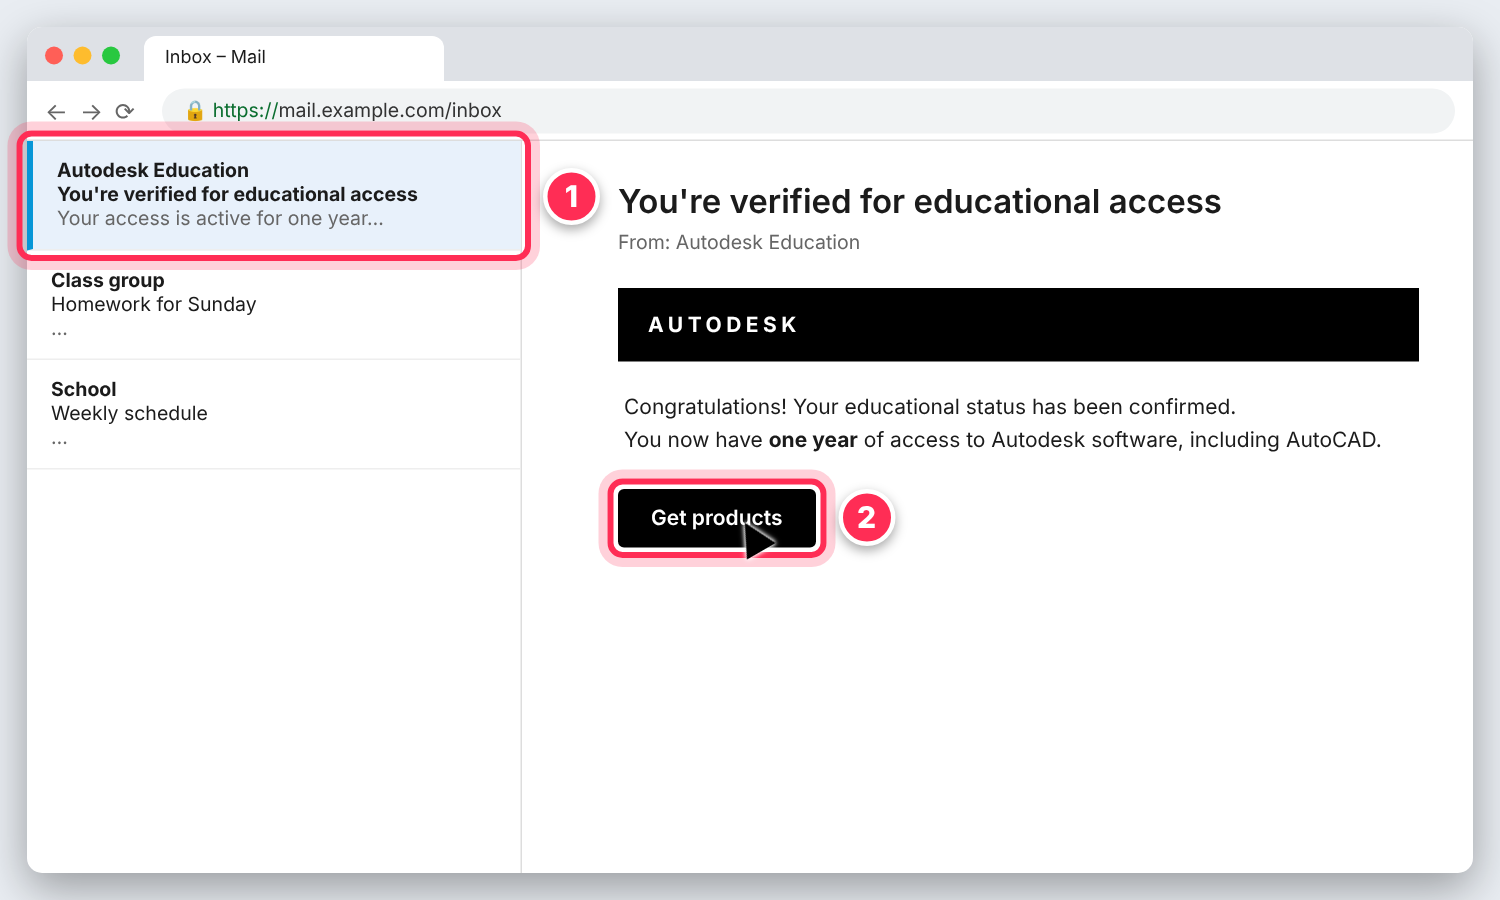
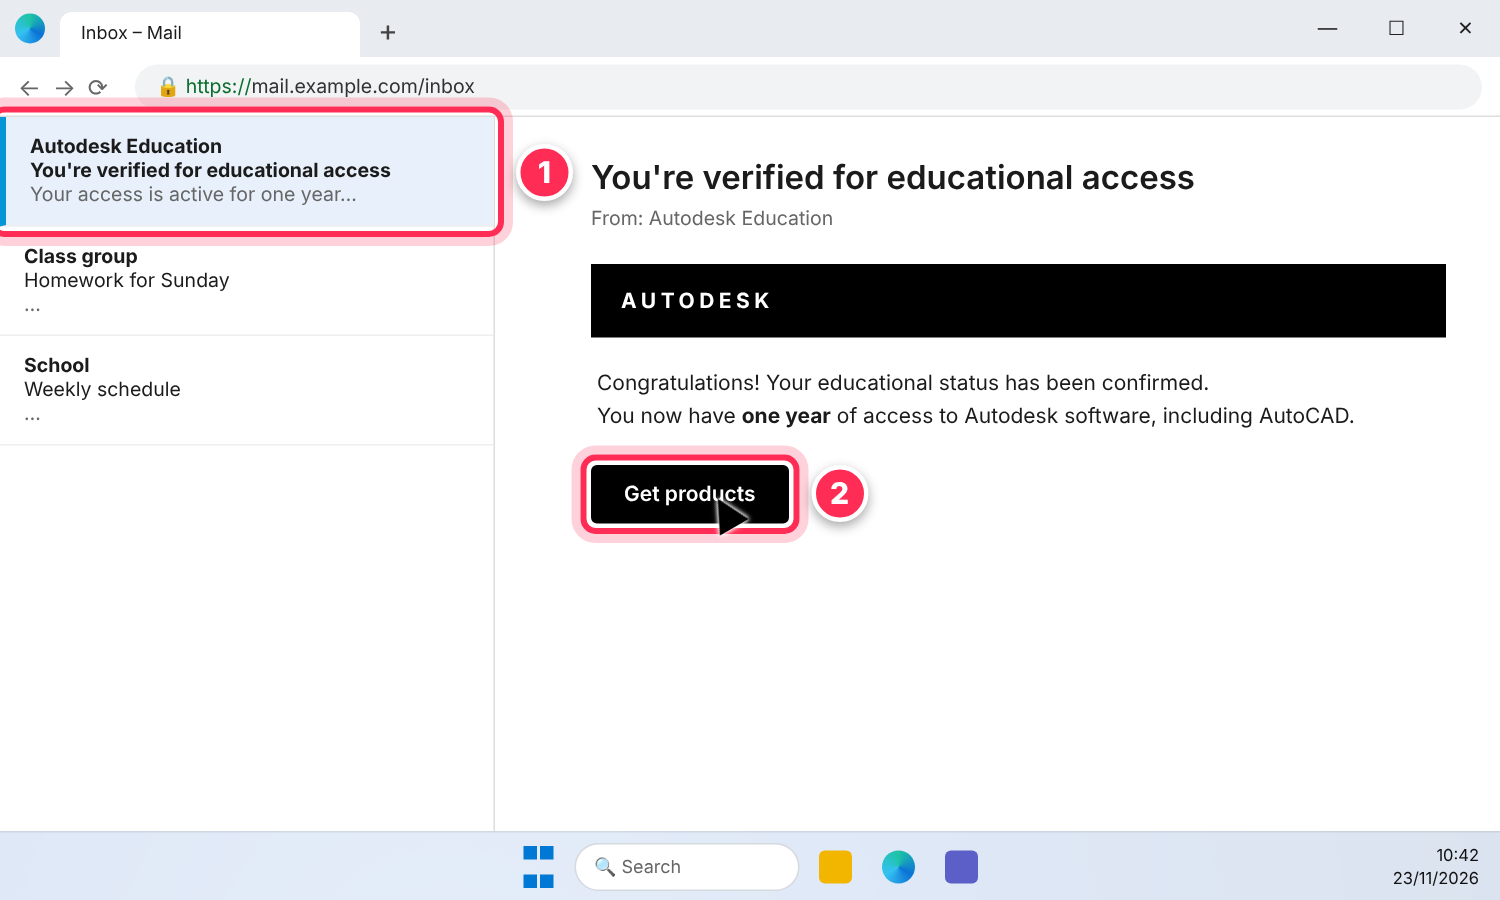
Redraw screen illustrations in Windows 11 style
Claude-Session: https://claude.ai/code/session_01HfNHHeuN3o1NZDg6FJ5LBf

Changed region(s): [[0.0, 0.0, 1.0, 1.0]]

diff --git a/mockups/mockups.html b/mockups/mockups.html
@@ -97,6 +97,27 @@
   /* --- mail --- */
   .mail-list div { padding: 12px 16px; border-bottom: 1px solid #eee; font-size: 13px; }
 
+
+  /* --- Windows 11 look --- */
+  .desk, .shot.windesk { background: radial-gradient(ellipse at 30% 110%, #7fb2ff 0%, #2f6fd6 35%, #133b8a 70%, #0b1f4d 100%); }
+  .shot.windesk .browser { inset: 0 0 46px 0; border-radius: 0; box-shadow: none; }
+  .tabs { background: #e8ebf0; height: 38px; align-items: flex-end; padding: 0 0 0 8px; gap: 6px; }
+  .tabs .edge { width: 20px; height: 20px; border-radius: 50%; background: conic-gradient(#1ec3a6, #0b72d6, #35c1f1, #1ec3a6); color: transparent; margin: 0 4px 9px 2px; }
+  .tabs .newtab { font-size: 20px; color: #444; margin: 0 6px 6px; }
+  .winctl { margin-left: auto; display: flex; align-self: stretch; }
+  .winctl span { width: 46px; display: flex; align-items: center; justify-content: center; font-size: 13px; color: #222; }
+  .wbar { position: absolute; left: 0; right: 0; top: 0; height: 32px; background: #fff; display: flex; align-items: center; padding-left: 12px; font-size: 12px; color: #222; border-bottom: 1px solid #e3e3e3; z-index: 2; }
+  .wbar .winctl { height: 32px; }
+  .wbar.dark { background: #2b2b2b; color: #eee; border-color: #2b2b2b; }
+  .wbar.dark .winctl span { color: #eee; }
+  .inst { padding-top: 32px; }
+  .taskbar { height: 46px; background: rgba(238,242,248,.92); border-top: 1px solid rgba(0,0,0,.08); gap: 6px; }
+  .taskbar .ti { width: 36px; height: 36px; border-radius: 6px; display: flex; align-items: center; justify-content: center; }
+  .taskbar .start { display: grid; grid-template-columns: 9px 9px; gap: 2px; }
+  .taskbar .start b { width: 9px; height: 9px; background: #0078d4; display: block; }
+  .taskbar .search { width: 150px; height: 32px; border-radius: 16px; background: #fff; border: 1px solid #d6d9de; font-size: 12px; color: #666; display: flex; align-items: center; padding-left: 12px; }
+  .taskbar .clock { position: absolute; right: 14px; font-size: 11px; text-align: right; line-height: 1.35; color: #111; }
+  .taskbar .sq { width: 22px; height: 22px; border-radius: 4px; display: block; }
 </style>
 </head>
 <body>
@@ -129,13 +150,13 @@
       </div>
     </div>
   </div>
-  <div class="taskbar"><i></i><i></i><i></i><i></i></div>
+  
 </div>
 
 <!-- 02 — Autodesk education page -->
 <div class="shot" id="02-education-page">
   <div class="browser">
-    <div class="tabs"><div class="dots"><i></i><i></i><i></i></div><div class="tab">Autodesk Education | Free software for…</div></div>
+    <div class="tabs"><span class="edge">e</span><div class="tab">Autodesk Education | Free software for…</div><span class="newtab">+</span><div class="winctl"><span>—</span><span>☐</span><span>✕</span></div></div>
     <div class="bar"><span class="nav">←→⟳</span><div class="url">🔒 <b>https://</b>www.autodesk.com/education/edu-software/overview</div></div>
     <div class="page">
       <div class="site-top"><span class="brand">AUTODESK</span><span>Products</span><span>Support</span><span>Learning</span><span style="margin-left:auto">Sign in</span></div>
@@ -157,7 +178,7 @@
 <!-- 03 — Sign in / Create account -->
 <div class="shot" id="03-sign-in">
   <div class="browser">
-    <div class="tabs"><div class="dots"><i></i><i></i><i></i></div><div class="tab">Autodesk – Sign In</div></div>
+    <div class="tabs"><span class="edge">e</span><div class="tab">Autodesk – Sign In</div><span class="newtab">+</span><div class="winctl"><span>—</span><span>☐</span><span>✕</span></div></div>
     <div class="bar"><span class="nav">←→⟳</span><div class="url">🔒 <b>https://</b>accounts.autodesk.com/logon</div></div>
     <div class="page" style="background:#f5f5f5;display:flex;align-items:center;justify-content:center">
       <div class="card" style="width:400px;padding:34px 36px">
@@ -175,7 +196,7 @@
 <!-- 04 — Create account form (education) -->
 <div class="shot" id="04-create-account">
   <div class="browser">
-    <div class="tabs"><div class="dots"><i></i><i></i><i></i></div><div class="tab">Autodesk Education – Create account</div></div>
+    <div class="tabs"><span class="edge">e</span><div class="tab">Autodesk Education – Create account</div><span class="newtab">+</span><div class="winctl"><span>—</span><span>☐</span><span>✕</span></div></div>
     <div class="bar"><span class="nav">←→⟳</span><div class="url">🔒 <b>https://</b>www.autodesk.com/education/edu-software/…</div></div>
     <div class="page" style="background:#f5f5f5;display:flex;justify-content:center;gap:24px;padding-top:24px">
       <div class="card" style="width:400px;padding:24px 30px">
@@ -201,7 +222,7 @@
 <!-- 05 — Verify education status (SheerID-style) -->
 <div class="shot" id="05-verify">
   <div class="browser">
-    <div class="tabs"><div class="dots"><i></i><i></i><i></i></div><div class="tab">Confirm your education status</div></div>
+    <div class="tabs"><span class="edge">e</span><div class="tab">Confirm your education status</div><span class="newtab">+</span><div class="winctl"><span>—</span><span>☐</span><span>✕</span></div></div>
     <div class="bar"><span class="nav">←→⟳</span><div class="url">🔒 <b>https://</b>www.autodesk.com/education/edu-software/…/verify</div></div>
     <div class="page" style="background:#f5f5f5;display:flex;align-items:flex-start;justify-content:center;padding-top:26px">
       <div class="card" style="width:560px;padding:26px 34px">
@@ -222,7 +243,7 @@
 <!-- 06 — Verification email -->
 <div class="shot" id="06-approved-mail">
   <div class="browser">
-    <div class="tabs"><div class="dots"><i></i><i></i><i></i></div><div class="tab">Inbox – Mail</div></div>
+    <div class="tabs"><span class="edge">e</span><div class="tab">Inbox – Mail</div><span class="newtab">+</span><div class="winctl"><span>—</span><span>☐</span><span>✕</span></div></div>
     <div class="bar"><span class="nav">←→⟳</span><div class="url">🔒 <b>https://</b>mail.example.com/inbox</div></div>
     <div class="page" style="display:flex">
       <div class="mail-list" style="width:330px;border-right:1px solid #ddd">
@@ -244,7 +265,7 @@
 <!-- 07 — Products list, AutoCAD card -->
 <div class="shot" id="07-products">
   <div class="browser">
-    <div class="tabs"><div class="dots"><i></i><i></i><i></i></div><div class="tab">Autodesk Education – Products</div></div>
+    <div class="tabs"><span class="edge">e</span><div class="tab">Autodesk Education – Products</div><span class="newtab">+</span><div class="winctl"><span>—</span><span>☐</span><span>✕</span></div></div>
     <div class="bar"><span class="nav">←→⟳</span><div class="url">🔒 <b>https://</b>www.autodesk.com/education/edu-software/overview?sorting=featured&amp;filters=individual</div></div>
     <div class="page" style="background:#f5f5f5;padding:24px 30px">
       <div style="font-size:22px;font-weight:600;margin-bottom:6px">Get Autodesk software</div>
@@ -276,7 +297,7 @@
 <!-- 08 — Download options -->
 <div class="shot" id="08-download-options">
   <div class="browser">
-    <div class="tabs"><div class="dots"><i></i><i></i><i></i></div><div class="tab">Autodesk Education – Products</div></div>
+    <div class="tabs"><span class="edge">e</span><div class="tab">Autodesk Education – Products</div><span class="newtab">+</span><div class="winctl"><span>—</span><span>☐</span><span>✕</span></div></div>
     <div class="bar"><span class="nav">←→⟳</span><div class="url">🔒 <b>https://</b>www.autodesk.com/education/edu-software/overview</div></div>
     <div class="page" style="background:rgba(0,0,0,.45);display:flex;align-items:center;justify-content:center">
       <div class="card" style="width:470px;padding:26px 32px;position:relative">
@@ -297,7 +318,7 @@
 <!-- 09 — Browser downloads -->
 <div class="shot" id="09-downloaded">
   <div class="browser">
-    <div class="tabs"><div class="dots"><i></i><i></i><i></i></div><div class="tab">Autodesk Education – Products</div></div>
+    <div class="tabs"><span class="edge">e</span><div class="tab">Autodesk Education – Products</div><span class="newtab">+</span><div class="winctl"><span>—</span><span>☐</span><span>✕</span></div></div>
     <div class="bar"><span class="nav">←→⟳</span><div class="url">🔒 <b>https://</b>www.autodesk.com/education/edu-software/overview</div><span style="font-size:18px">⬇</span></div>
     <div class="page" style="background:#f5f5f5">
       <div class="card" style="position:absolute;right:16px;top:6px;width:430px;padding:16px 18px;z-index:2">
@@ -326,12 +347,12 @@
     <div style="position:absolute;left:24px;right:24px;bottom:20px;display:flex;gap:10px"><span class="btn win" data-hl="1" data-side="left" data-cursor style="flex:1;text-align:center">Yes</span><span class="btn wingrey" style="flex:1;text-align:center">No</span></div>
   </div>
   <div class="note" style="left:730px;top:200px">Make sure the publisher is “Autodesk, Inc.”</div>
-  <div class="taskbar"><i></i><i></i><i></i><i></i></div>
+  
 </div>
 
 <!-- 11 — Installer: license -->
 <div class="shot desk" id="11-license">
-  <div class="inst">
+  <div class="inst"><div class="wbar">Autodesk Installer<div class="winctl"><span>—</span><span>☐</span><span>✕</span></div></div>
     <div class="side"><div class="logo">AUTODESK</div><h2>AutoCAD 2027</h2><div style="opacity:.7;font-size:13px">Education</div></div>
     <div class="main">
       <h3>Terms of use</h3>
@@ -344,7 +365,7 @@
 
 <!-- 12 — Installer: location -->
 <div class="shot desk" id="12-location">
-  <div class="inst">
+  <div class="inst"><div class="wbar">Autodesk Installer<div class="winctl"><span>—</span><span>☐</span><span>✕</span></div></div>
     <div class="side"><div class="logo">AUTODESK</div><h2>AutoCAD 2027</h2><div style="opacity:.7;font-size:13px">Education</div></div>
     <div class="main">
       <h3>Select install location</h3>
@@ -361,7 +382,7 @@
 
 <!-- 13 — Installer: progress -->
 <div class="shot desk" id="13-progress">
-  <div class="inst">
+  <div class="inst"><div class="wbar">Autodesk Installer<div class="winctl"><span>—</span><span>☐</span><span>✕</span></div></div>
     <div class="side"><div class="logo">AUTODESK</div><h2>AutoCAD 2027</h2><div style="opacity:.7;font-size:13px">Education</div></div>
     <div class="main">
       <h3>Installing…</h3>
@@ -379,7 +400,7 @@
 
 <!-- 14 — Installer: complete -->
 <div class="shot desk" id="14-complete">
-  <div class="inst">
+  <div class="inst"><div class="wbar">Autodesk Installer<div class="winctl"><span>—</span><span>☐</span><span>✕</span></div></div>
     <div class="side"><div class="logo">AUTODESK</div><h2>AutoCAD 2027</h2><div style="opacity:.7;font-size:13px">Education</div></div>
     <div class="main" style="display:flex;flex-direction:column;align-items:center;justify-content:center;text-align:center">
       <div style="width:70px;height:70px;border-radius:50%;background:#2aa14b;color:#fff;font-size:40px;display:flex;align-items:center;justify-content:center;margin-bottom:16px">✓</div>
@@ -409,7 +430,7 @@
 <!-- 16 — AutoCAD start tab -->
 <div class="shot" id="16-start">
   <div class="acad">
-    <div class="qa"><span class="A">A</span><span data-hl="2">AutoCAD 2027 – EDUCATIONAL VERSION</span><span style="margin-left:auto">👤 student</span></div>
+    <div class="qa"><span class="A">A</span><span data-hl="2">AutoCAD 2027 – EDUCATIONAL VERSION</span><span style="margin-left:auto">👤 student</span><span style="letter-spacing:26px;margin-left:20px">—☐✕</span></div>
     <div style="display:flex;height:calc(100% - 32px)">
       <div style="width:240px;background:#2b323d;padding:24px 20px;font-size:13px;line-height:2.4">
         <div style="font-size:22px;font-weight:300;color:#fff;margin-bottom:10px">Start</div>
@@ -432,7 +453,7 @@
 <!-- 17 — AutoCAD drawing area -->
 <div class="shot" id="17-drawing">
   <div class="acad">
-    <div class="qa"><span class="A">A</span><span>AutoCAD 2027 – EDUCATIONAL VERSION &nbsp; Drawing1.dwg</span><span style="margin-left:auto">👤 student</span></div>
+    <div class="qa"><span class="A">A</span><span>AutoCAD 2027 – EDUCATIONAL VERSION &nbsp; Drawing1.dwg</span><span style="margin-left:auto">👤 student</span><span style="letter-spacing:26px;margin-left:20px">—☐✕</span></div>
     <div class="ribbon-tabs"><span class="on">Home</span><span>Insert</span><span>Annotate</span><span>Parametric</span><span>View</span><span>Manage</span><span>Output</span></div>
     <div class="ribbon">
       <div class="panel" data-hl="1"><div class="icons"><i></i><i></i><i></i><i></i></div><small>Draw ▾</small></div>
@@ -456,6 +477,18 @@
 </div>
 
 
+<script>
+var TB = '<div class="taskbar"><div class="ti start"><b></b><b></b><b></b><b></b></div><div class="search">🔍 Search</div>' +
+  '<div class="ti"><span class="sq" style="background:#f2b600"></span></div>' +
+  '<div class="ti"><span class="sq" style="background:conic-gradient(#1ec3a6,#0b72d6,#35c1f1,#1ec3a6);border-radius:50%"></span></div>' +
+  '<div class="ti"><span class="sq" style="background:#5b5fc7"></span></div>' +
+  '<div class="clock">10:42<br>23/11/2026</div></div>';
+document.querySelectorAll('.shot').forEach(function (shot) {
+  if (shot.querySelector('.acad')) return;            // AutoCAD shown full screen
+  if (shot.querySelector('.browser')) shot.classList.add('windesk');
+  shot.insertAdjacentHTML('beforeend', TB);
+});
+</script>
 <script>
 document.querySelectorAll('.shot').forEach(shot => {
   const sr = shot.getBoundingClientRect();
